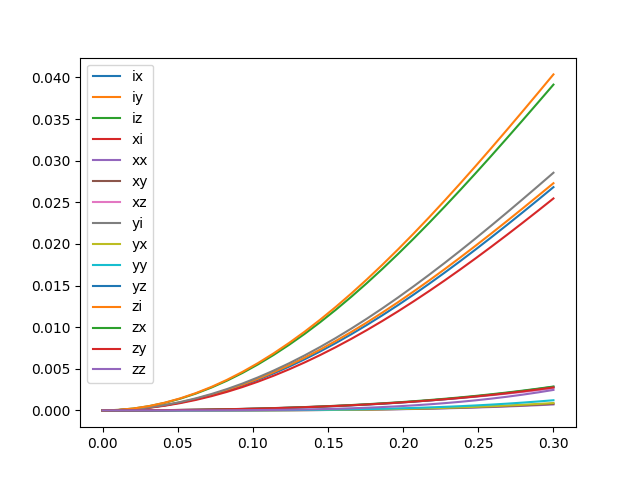
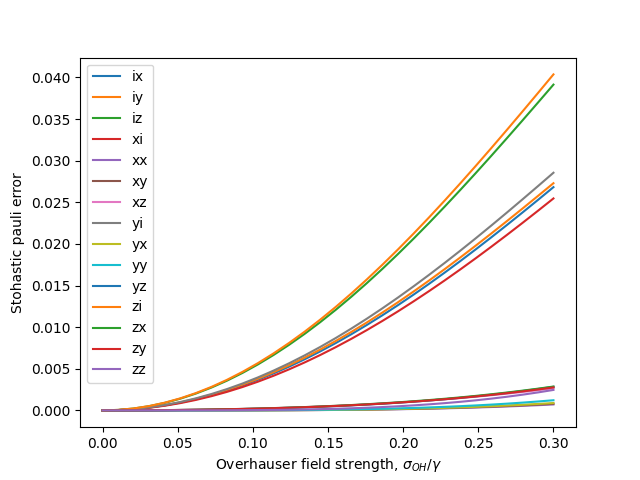
updated plots

Changed region(s): [[0.3438, 0.9375, 0.6875, 1.0], [0.0, 0.375, 0.0312, 0.6562]]

diff --git a/ruscz_cudaq/examples/plotting.py b/ruscz_cudaq/examples/plotting.py
@@ -38,6 +38,8 @@ pauli_errors = np.array(pauli_errors).transpose()
 for lb, dat in zip(a[1:], pauli_errors[1:]):
     plt.plot(sigmas, dat, label=lb)
 plt.legend()
+plt.xlabel("Overhauser field strength, $\sigma_{OH}/\gamma$")
+plt.ylabel("Stohastic pauli error")
 
 plt.savefig("pauli.png")
 
@@ -53,4 +55,4 @@ chi_err[0,0] = 0
 chi_err = qt.Qobj(chi_err, dims=[[[2, 2], [2, 2]], [[2, 2], [2, 2]]], superrep='chi')
 
 qt.qpt_plot_combined(chi_err / chi_err.tr(), lbls_list=[['i', 'x', 'y', 'z']] * 2)
-plt.savefig("chi_matrix.png")
+plt.savefig("chi_err_matrix.png")
